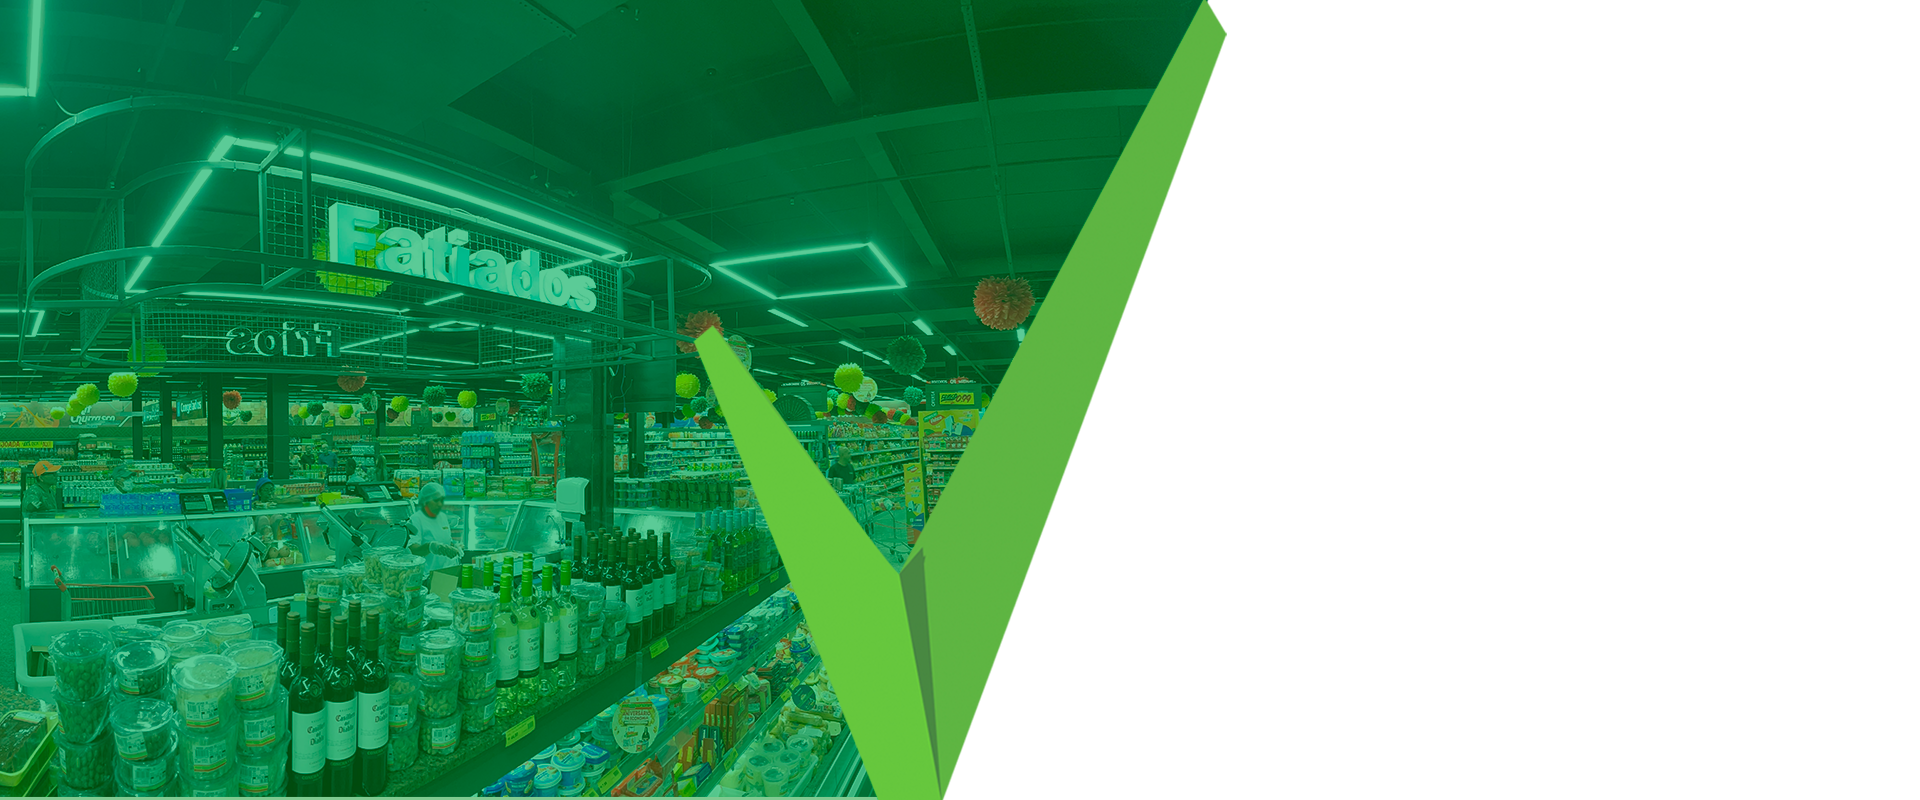
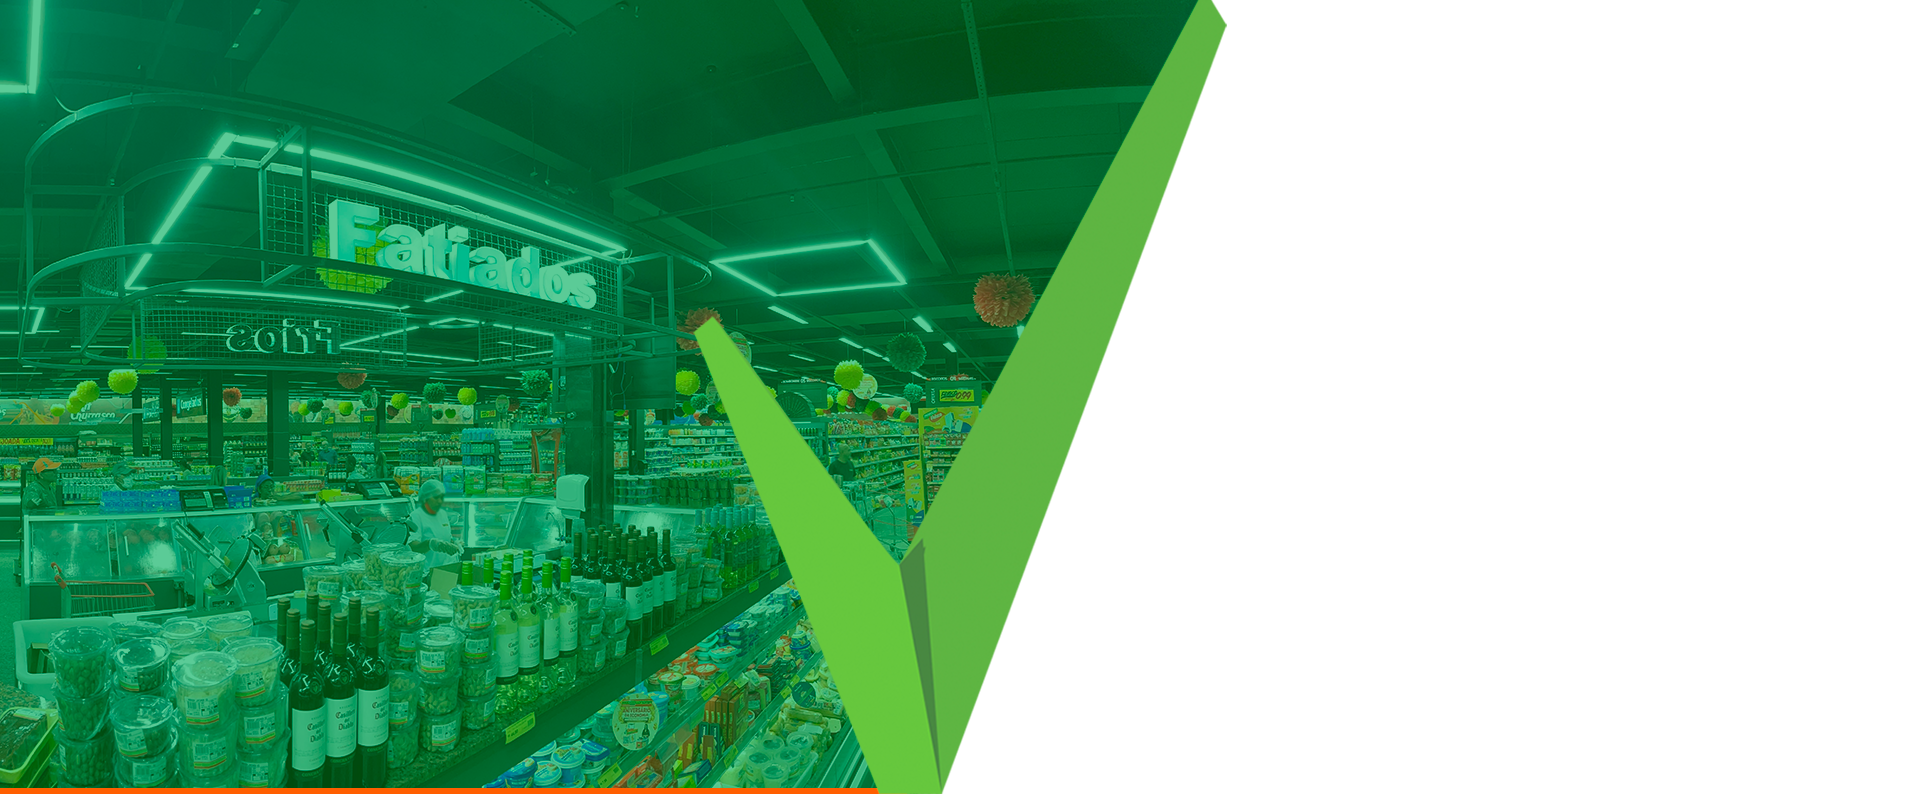
Atualização

diff --git a/css/style.css b/css/style.css
@@ -2374,6 +2374,8 @@ ul {
 
 .bg-animate {
   position: absolute;
+  height: auto;
+  width: 60%;
   right: 0;
   bottom: 0;
   z-index: -1;
@@ -2383,6 +2385,7 @@ ul {
 
 .bg-check {
   position: absolute;
+  
   right: 0;
   bottom: 0;
   margin-top: 200px;
